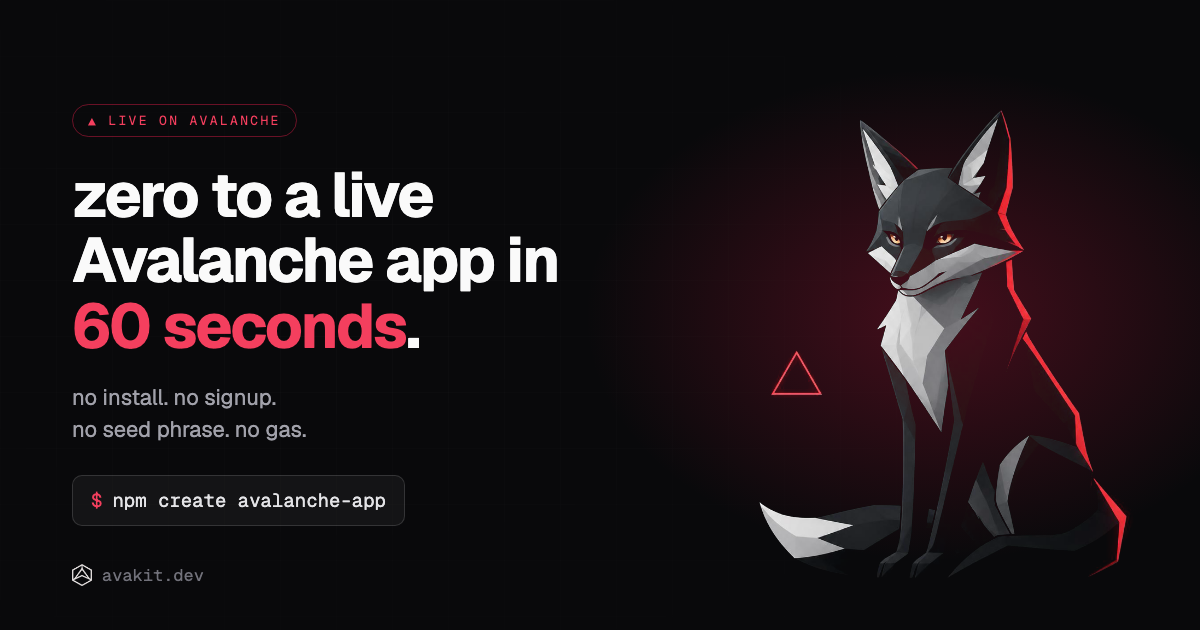
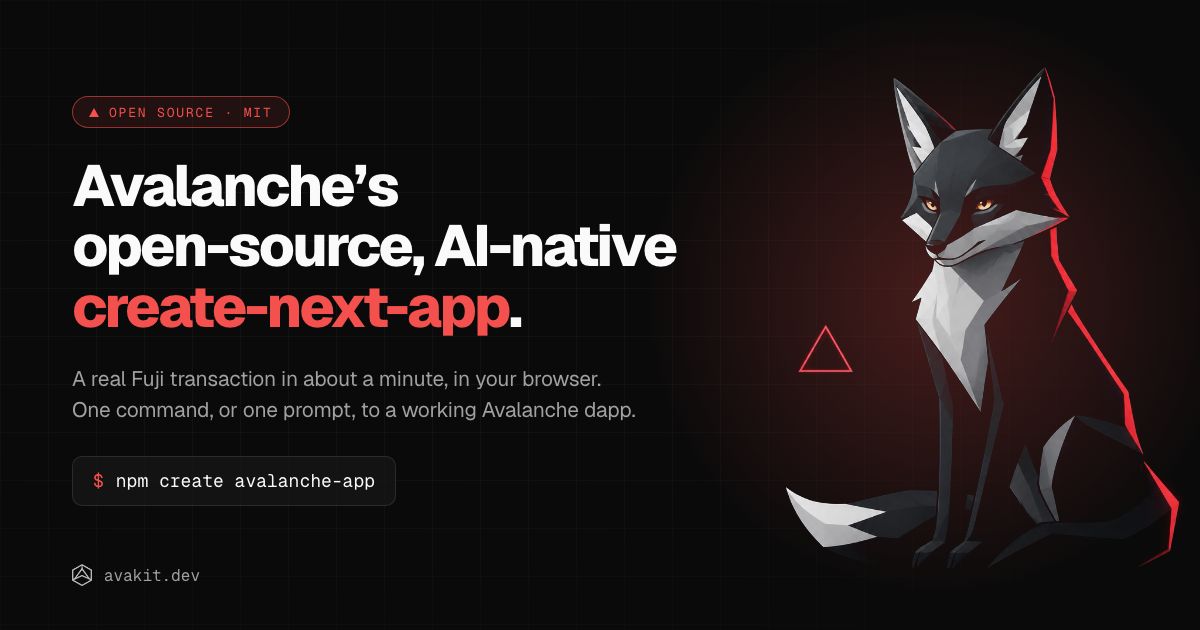
Replace the social card's overclaiming copy with true lines rendered from a checked-in template, and test that its alt text matches the card word for word.

diff --git a/apps/web/og/og-image.html b/apps/web/og/og-image.html
@@ -1,0 +1,188 @@
+<!doctype html>
+<!--
+  Source of apps/web/public/og-image.png, the social card every page points at
+  (OG_IMAGE in lib/metadata.ts).
+
+  Render it at exactly 1200x630, device scale factor 1, in any headless
+  Chromium, straight from this file (the images resolve relative to it), and
+  save the screenshot over public/og-image.png. Then copy the card's text, word
+  for word and in reading order, into OG_IMAGE.alt.
+
+  Every line must stay true for what the card shows: the npm command installs
+  dependencies, so no "no install" beside it, and "about a minute" belongs to
+  the /new mint in the browser, not to a scaffolded app.
+
+  Colors are the dark-theme tokens from app/globals.css and the type is the
+  site's Geist / Geist Mono, so the card matches the site.
+-->
+<html lang="en">
+  <head>
+    <meta charset="utf-8" />
+    <link
+      rel="stylesheet"
+      href="https://fonts.googleapis.com/css2?family=Geist:wght@100..900&family=Geist+Mono:wght@100..900&display=block"
+    />
+    <style>
+      :root {
+        --background: oklch(0.145 0 0);
+        --foreground: oklch(0.985 0 0);
+        --muted-foreground: oklch(0.708 0 0);
+        --primary: oklch(0.66 0.2 25.3);
+        --brand: oklch(0.66 0.2 25.3);
+        --border: oklch(1 0 0 / 10%);
+        --card: oklch(0.205 0 0);
+      }
+      * {
+        box-sizing: border-box;
+        margin: 0;
+        padding: 0;
+      }
+      html,
+      body {
+        width: 1200px;
+        height: 630px;
+        overflow: hidden;
+        background: var(--background);
+      }
+      body {
+        position: relative;
+        font-family: Geist, sans-serif;
+        color: var(--foreground);
+        -webkit-font-smoothing: antialiased;
+      }
+      .grid {
+        position: absolute;
+        inset: 0;
+        background-image:
+          linear-gradient(to right, oklch(1 0 0 / 3%) 1px, transparent 1px),
+          linear-gradient(to bottom, oklch(1 0 0 / 3%) 1px, transparent 1px);
+        background-size: 48px 48px;
+        mask-image: radial-gradient(ellipse 70% 80% at 30% 50%, black 30%, transparent 100%);
+      }
+      .glow {
+        position: absolute;
+        left: 600px;
+        top: -40px;
+        width: 680px;
+        height: 680px;
+        background: radial-gradient(
+          circle at 50% 50%,
+          color-mix(in oklab, var(--brand) 26%, transparent) 0%,
+          transparent 62%
+        );
+      }
+      .fox {
+        position: absolute;
+        right: -30px;
+        top: 24px;
+        width: 600px;
+        height: 600px;
+        mix-blend-mode: lighten;
+      }
+      .copy {
+        position: absolute;
+        left: 72px;
+        top: 96px;
+        width: 640px;
+      }
+      .badge {
+        display: inline-flex;
+        align-items: center;
+        gap: 10px;
+        height: 32px;
+        padding: 0 16px;
+        border: 1px solid color-mix(in oklab, var(--primary) 55%, transparent);
+        border-radius: 999px;
+        background: color-mix(in oklab, var(--primary) 10%, transparent);
+        color: var(--primary);
+        font-family: "Geist Mono", monospace;
+        font-size: 13px;
+        letter-spacing: 0.14em;
+        text-transform: uppercase;
+      }
+      .badge svg {
+        width: 10px;
+        height: 9px;
+        fill: currentColor;
+      }
+      h1 {
+        margin-top: 28px;
+        font-size: 58px;
+        font-weight: 800;
+        line-height: 1.04;
+        letter-spacing: -0.045em;
+        white-space: nowrap;
+      }
+      h1 .accent {
+        color: var(--primary);
+      }
+      .lines {
+        margin-top: 26px;
+        color: var(--muted-foreground);
+        font-size: 21px;
+        line-height: 1.5;
+        letter-spacing: -0.01em;
+      }
+      .cmd {
+        display: inline-flex;
+        align-items: center;
+        gap: 12px;
+        margin-top: 30px;
+        height: 50px;
+        padding: 0 20px;
+        border: 1px solid var(--border);
+        border-radius: 10px;
+        background: color-mix(in oklab, var(--card) 70%, transparent);
+        font-family: "Geist Mono", monospace;
+        font-size: 18px;
+      }
+      .cmd .dollar {
+        color: var(--primary);
+      }
+      .site {
+        position: absolute;
+        left: 72px;
+        bottom: 44px;
+        display: flex;
+        align-items: center;
+        gap: 12px;
+        color: var(--muted-foreground);
+        font-family: "Geist Mono", monospace;
+        font-size: 16px;
+      }
+      .site img {
+        width: 20px;
+        height: 22px;
+        filter: invert(1);
+        opacity: 0.75;
+      }
+    </style>
+  </head>
+  <body>
+    <div class="grid"></div>
+    <div class="glow"></div>
+    <img class="fox" src="../public/brand/avafox.png" alt="" />
+
+    <div class="copy">
+      <span class="badge">
+        <svg viewBox="0 0 10 9" aria-hidden="true"><path d="M5 0l5 9H0z" /></svg>
+        Open source · MIT
+      </span>
+      <h1>
+        Avalanche’s<br />
+        open-source, AI-native<br />
+        <span class="accent">create-next-app</span>.
+      </h1>
+      <p class="lines">
+        A real Fuji transaction in about a minute, in your browser.<br />
+        One command, or one prompt, to a working Avalanche dapp.
+      </p>
+      <div class="cmd"><span class="dollar">$</span> npm create avalanche-app</div>
+    </div>
+
+    <div class="site">
+      <img src="../public/logo.png" alt="" />
+      avakit.dev
+    </div>
+  </body>
+</html>

diff --git a/apps/web/lib/metadata.ts b/apps/web/lib/metadata.ts
@@ -2,6 +2,7 @@ import type { Metadata } from "next";
 
 import { routing } from "@/i18n/routing";
 import type { Locale } from "@/lib/content";
+import { OG_IMAGE } from "@/lib/og-image";
 
 /**
  * Per-page metadata, built in one place.
@@ -23,12 +24,7 @@ export const withSiteName = (title: string) => `${title} — ${SITE_NAME}`;
 /** The home page leads with the site name instead: "AvaKit — <tagline>". */
 export const homeTitle = (tagline: string) => `${SITE_NAME} — ${tagline}`;
 
-export const OG_IMAGE = {
-  url: "/og-image.png",
-  width: 1200,
-  height: 630,
-  alt: "AvaKit — zero to a live Avalanche app in 60 seconds. No install, no signup, no seed phrase, no gas.",
-};
+export { OG_IMAGE };
 
 const OG_LOCALE: Record<Locale, string> = { en: "en_US", tr: "tr_TR" };
 

diff --git a/apps/web/lib/og-image.ts b/apps/web/lib/og-image.ts
@@ -1,0 +1,14 @@
+/**
+ * The social card every page points at. The image is rendered from
+ * og/og-image.html (see the comment there for how), and `alt` is the card's
+ * text word for word, in reading order: test/og-image.test.mjs fails when the
+ * two drift apart, or when the card claims what the code does not do.
+ *
+ * This module imports nothing, so that test can load it with plain Node.
+ */
+export const OG_IMAGE = {
+  url: "/og-image.png",
+  width: 1200,
+  height: 630,
+  alt: "Open source · MIT — Avalanche’s open-source, AI-native create-next-app. A real Fuji transaction in about a minute, in your browser. One command, or one prompt, to a working Avalanche dapp. $ npm create avalanche-app — avakit.dev",
+};
